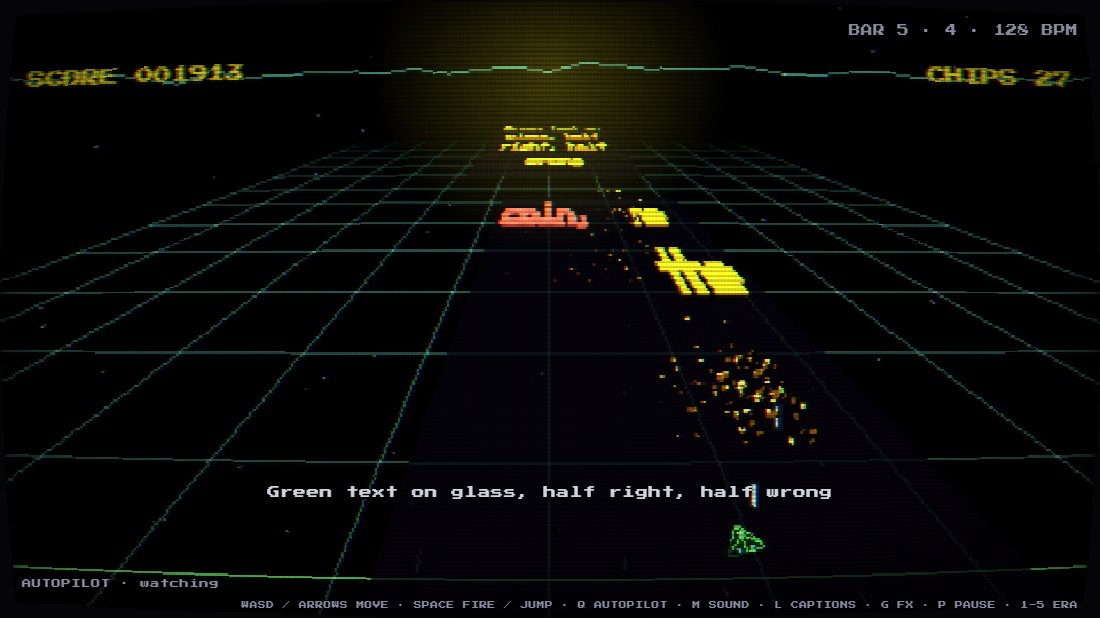
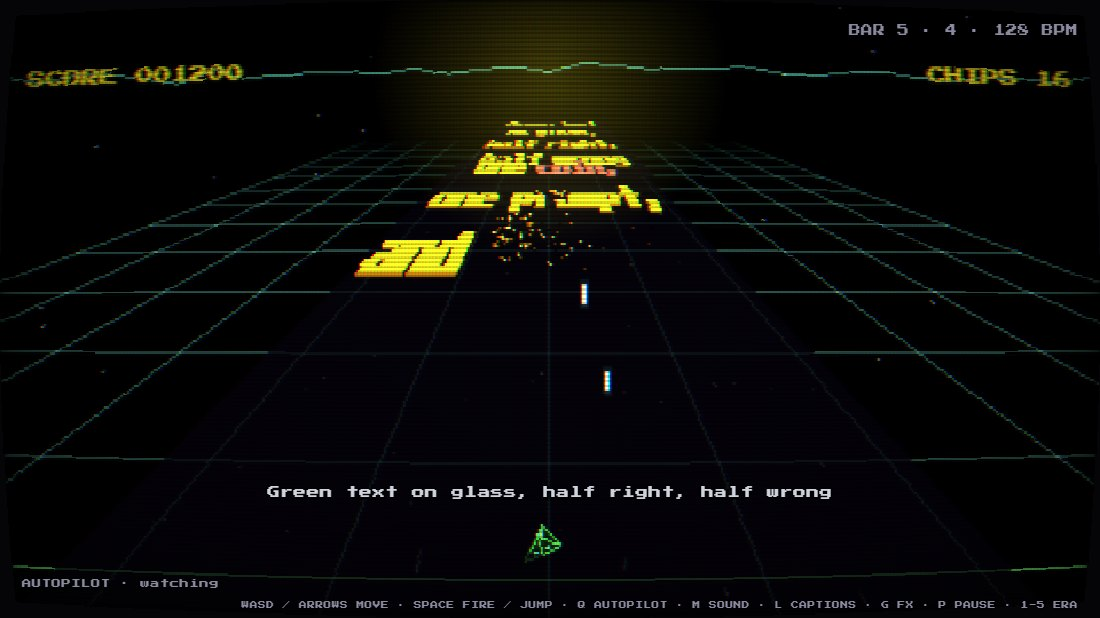
Crisp arcade words, four stage transitions, 32-BIT, no translate prompt
Arcade: 24 px type on 3-texel voxels so every block is exactly one font
pixel again (18 px had pushed glyph pixels off the voxel grid and
smeared the letters); chip radius scales with the type; the autopilot
holds fire until words are in the nearer half, so every line reads
cleanly for most of its approach (23/42 cleared, 0 deaths).
Transitions: arcade -> 32-bit is a resolution upgrade (pixelate out,
sharpen in); 32-bit -> 3D powers the CRT off to a line and flies the
race in; 3D -> mobile shrinks the race into the phone's screen; mobile
-> VR opens the VR world out of the phone in a neon frame while the
agent birds grow and fly over everything (their own top layer again).
Stage 2 is labelled 32-BIT. The page is marked English / notranslate
(also set at runtime, since the artifact build drops <html lang>).
README screenshots and the visual baseline refreshed.

diff --git a/src/main.ts b/src/main.ts
@@ -70,11 +70,24 @@ function glitch(t){if(t-lastBeatT<0.07&&hash(beatIdx)>0.5){for(let i=0;i<3;i++){
 function edge(x){const g=ctx.createLinearGradient(x-30,0,x+6,0);g.addColorStop(0,'rgba(255,255,255,0)');g.addColorStop(1,'rgba(255,255,255,.9)');ctx.fillStyle=g;ctx.fillRect(x-30,0,36,H)}
 
 function render(t,auto){ctx.setTransform(dpr,0,0,dpr,0,0);ctx.imageSmoothingEnabled=false;ctx.fillStyle='#000';ctx.fillRect(0,0,W,H);const e=eraAt(t),tr=transAt(t);
- if(e===0){if(E1GL.ok)E1GL.draw(lo1.x,t);else E1.draw(lo1.x,t);if(tr){E2.draw(lo2.x,t);blitCRT(lo2,t);const ex=W*smooth(tr.p);ctx.save();ctx.beginPath();ctx.rect(ex,0,W-ex,H);ctx.clip();blitCRT(lo1,t);ctx.restore();edge(ex)}else blitCRT(lo1,t)}
- else if(e===1){E2.draw(lo2.x,t);if(tr){drawE3(t);const p=smooth(tr.p);ctx.save();ctx.globalAlpha=1-p;const hy=H*0.5;ctx.translate(W/2,hy);ctx.scale(1+p*0.6,1-p*0.98);ctx.translate(-W/2,-hy);blitCRT(lo2,t);ctx.restore()}else blitCRT(lo2,t)}
- else if(e===2){if(tr){E4.draw(ctx,t);ctx.globalAlpha=Math.pow(1-tr.p,1.5);drawE3(t);ctx.globalAlpha=1;scan(0.07*(1-tr.p))}else{drawE3(t);scan(0.07)}}
- else if(e===3){E4.draw(ctx,t);if(tr){const p=smooth(tr.p);ctx.save();ctx.translate(W*(1-p),0);ctx.beginPath();ctx.rect(0,0,W,H);ctx.clip();drawE5(t);ctx.restore();edge(W*(1-p))}}
+ // transitions (the last TRANS before each stage), one per hand-off:
+ // arcade -> 32-bit: a resolution upgrade (the arcade breaks into chunky pixels, the 32-bit world sharpens out of them)
+ if(e===0){if(E1GL.ok)E1GL.draw(lo1.x,t);else E1.draw(lo1.x,t);if(tr){const p=tr.p;if(p<0.5)blitCRT(lo1,t);else{E2.draw(lo2.x,t);blitCRT(lo2,t)}
+   const steps=[1,2,3,4,6,8,12,16,24],q=p<0.5?smooth(p/0.5):1-smooth((p-0.5)/0.5);pixelate(steps[Math.round(q*(steps.length-1))]);if(Math.abs(p-0.5)<0.06){ctx.fillStyle=`rgba(255,255,255,${0.5*(1-Math.abs(p-0.5)/0.06)})`;ctx.fillRect(0,0,W,H)}}else blitCRT(lo1,t)}
+ // 32-bit -> 3D: the CRT powers off to a line, and the 3D race boots up out of the dark with a camera fly-in
+ else if(e===1){E2.draw(lo2.x,t);if(tr){const z=smooth(clamp((tr.p-0.3)/0.7,0,1));ctx.fillStyle='#000';ctx.fillRect(0,0,W,H);if(z>0){ctx.save();ctx.globalAlpha=Math.min(1,z*2);ctx.translate(W/2,H/2);ctx.scale(0.25+0.75*z,0.25+0.75*z);ctx.rotate((1-z)*0.35);ctx.translate(-W/2,-H/2);drawE3(t);ctx.restore()}
+   const p=smooth(clamp(tr.p/0.55,0,1));if(p<1){ctx.save();const hy=H*0.5;ctx.translate(W/2,hy);ctx.scale(1+p*0.4,Math.max(0.004,1-p));ctx.translate(-W/2,-hy);blitCRT(lo2,t);ctx.restore();ctx.fillStyle=`rgba(255,255,255,${0.9*p})`;ctx.fillRect(0,hy-1,W*(1-p*0.7)+0,2)}}else blitCRT(lo2,t)}
+ // 3D -> mobile: the race shrinks into the phone's screen: it was a game on the phone all along
+ else if(e===2){if(tr){E4.draw(ctx,t);const p=smooth(tr.p),R=E4.screenRect(t),r={x:lerp(0,R.x,p),y:lerp(0,R.y,p),w:lerp(W,R.w,p),h:lerp(H,R.h,p)};
+   ctx.save();ctx.globalAlpha=tr.p<0.72?1:Math.max(0,1-(tr.p-0.72)/0.28);ctx.beginPath();ctx.roundRect(r.x,r.y,r.w,r.h,18*p);ctx.clip();const sc=Math.max(r.w/W,r.h/H);ctx.translate(r.x+r.w/2,r.y+r.h/2);ctx.scale(sc,sc);ctx.translate(-W/2,-H/2);drawE3(t);ctx.restore()}else{drawE3(t);scan(0.07)}}
+ // mobile -> VR: the VR world opens out of the phone's screen while the agents fly out over everything
+ else if(e===3){E4.draw(ctx,t);if(tr){const p=smooth(tr.p),R=E4.screenRect(t),r={x:lerp(R.x,-8,p),y:lerp(R.y,-8,p),w:lerp(R.w,W+16,p),h:lerp(R.h,H+16,p)};
+   ctx.save();ctx.beginPath();ctx.roundRect(r.x,r.y,r.w,r.h,18*(1-p));ctx.clip();drawE5(t);ctx.restore();ctx.save();ctx.strokeStyle=`rgba(91,255,91,${0.9*(1-p)})`;ctx.lineWidth=3;ctx.shadowColor='#5bff5b';ctx.shadowBlur=18;ctx.beginPath();ctx.roundRect(r.x,r.y,r.w,r.h,18*(1-p));ctx.stroke();ctx.restore()}
+   E4.drawAgents(ctx,t)}
  else{drawE5(t);const q=clamp((t-ERAS[4].start)/(BAR*8),0,1);scan(0.1*q);if(t<cb(76))glitch(t)}}
+// chunky-pixel effect over the whole frame (k = pixel size in canvas px)
+const PXC=document.createElement('canvas'),PXX=PXC.getContext('2d')!;
+function pixelate(k:number){if(k<=1)return;const tw=Math.max(1,Math.round(W/k)),th=Math.max(1,Math.round(H/k));if(PXC.width!==tw||PXC.height!==th){PXC.width=tw;PXC.height=th}PXX.imageSmoothingEnabled=true;PXX.drawImage(cv,0,0,cv.width,cv.height,0,0,tw,th);ctx.save();ctx.imageSmoothingEnabled=false;ctx.drawImage(PXC,0,0,tw,th,0,0,W,H);ctx.restore()}
 function blitCRT(lo,t){if(CRT.ok){CRT.render(lo,t,1);ctx.save();ctx.imageSmoothingEnabled=true;ctx.drawImage(CRT.canvas(),0,0,W,H);ctx.restore()}else{blit(lo);scan(lo===lo1?0.55:0.3)}}
 function drawE3(t){if(E3GL.ok){E3GL.render(t);ctx.save();ctx.imageSmoothingEnabled=false;ctx.drawImage(E3GL.canvas(),0,0,W,H);ctx.restore();E3.overlay(ctx,t)}else{ctx.fillStyle='#1a1a2e';ctx.fillRect(0,0,W,H);ctx.fillStyle='#fff';ctx.font="10px 'Press Start 2P',monospace";ctx.fillText('WEBGL REQUIRED FOR THE RACER',W/2-150,H/2)}}
 function drawE5(t){if(E5GL.ok){E5GL.render(t);ctx.save();ctx.imageSmoothingEnabled=true;ctx.drawImage(E5GL.canvas(),0,0,W,H);ctx.restore();E5.overlay(ctx,t)}else E5.draw(ctx,t)}

diff --git a/src/era1.ts b/src/era1.ts
@@ -3,7 +3,7 @@ import {eggFind} from './eggs';
 
 // ---------- ERA 1: arcade. Lyrics crawl toward you on a tilted plane; you chip the letters away ----------
 export const E1=(()=>{
-const LW=480,LH=270,GROUND=LH-26,FS=18,ROWW=300,BW=ROWW+24,TRAVEL=BAR*2.6,YEL='#ffe81f',VPX=LW/2,VPY=30;
+const LW=480,LH=270,GROUND=LH-26,FS=24,ROWW=300,BW=ROWW+24,TRAVEL=BAR*2.6,YEL='#ffe81f',VPX=LW/2,VPY=30;
 // perspective: a point at depth z on the plane lands at screen y = VPY + F/z, with horizontal scale F2/z
 const F=4000,F2=27,ROWD=0.56,ZFAR=112,ZNEAR=18;
 const SHIP=['....X....','...XXX...','.XXXXXXX.','XXXXXXXXX'];
@@ -40,7 +40,7 @@ function fire(){if(S.ship.dead)return;if(S.bul.length<3&&S.cool<=0){S.bul.push({
 // shots already in flight count as gone, so two shots never go for the same pixels.
 // it only fires at words in the nearer two-thirds of the crawl (z <= ZFIRE), so each word is readable before it is
 // chipped (firing at any range cleared 40/45 words; this clears 27-33/45, the count shifts with tiny timing changes); a shot that would land farther is worth nothing
-const ZFIRE=ZNEAR+(ZFAR-ZNEAR)*0.8;
+const ZFIRE=ZNEAR+(ZFAR-ZNEAR)*0.5;
 const resv=()=>S.bul.filter(b=>!b.hit&&b.pred).map(b=>b.pred);
 function lit(w,c,r,rs){if(w.img.data[(r*w.w+c)*4+3]===0)return false;for(const p of rs)if((c-p.cu)*(c-p.cu)+(r-p.cy)*(r-p.cy)<=p.R*p.R)return false;return true}
 function shotAt(x,t,rs){let y=S.ship.y-2;const dt=1/60;
@@ -50,7 +50,7 @@ function shotAt(x,t,rs){let y=S.ship.y-2;const dt=1/60;
     for(const w of ln.words){if(w.dead||w.gold||u<w.bx||u>=w.bx+w.w||row<w.by||row>=w.by+w.h)continue; // the gold word is see-through to the autopilot
      const ws=rs.filter(p=>p.w===w);if(ws.length&&w.left-ws.reduce((a,p)=>a+p.n,0)<w.total*0.16)continue; // shots in flight will finish it
      const cu=Math.floor(u-w.bx);let hr=-1;for(let rr=Math.floor(row-w.by);rr>=0;rr--)if(lit(w,cu,rr,ws)){hr=rr;break}
-     if(hr<0)continue;const R=clamp(Math.round(10/sc),6,14),cy=Math.max(0,hr-(R>>1)),cap=Math.ceil(w.total*0.45);let n=0;
+     if(hr<0)continue;const R=clamp(Math.round(10/sc*FS/16),Math.round(6*FS/16),Math.round(14*FS/16)),cy=Math.max(0,hr-(R>>1)),cap=Math.ceil(w.total*0.45);let n=0;
      for(let yy=-R;yy<=R&&n<cap;yy++)for(let xx=-R;xx<=R&&n<cap;xx++){if(xx*xx+yy*yy>R*R)continue;const px=cu+xx,py=cy+yy;if(px<0||py<0||px>=w.w||py>=w.h)continue;if(lit(w,px,py,ws))n++}
      return{w,ln,n:z>ZFIRE?0:n,cu,cy,R,k}}}}}return null}
 // worth of a predicted hit: pixels taken (/150), +1 if it finishes the word (after the shots already in flight at it),
@@ -103,7 +103,7 @@ function update(dt,t,inp,auto){if(t>=ERAS[1].start)return;S.autoNow=auto;
    for(const w of ln.words){if(w.dead||(w.gold&&b.auto)||u<w.bx||u>=w.bx+w.w||row<w.by||row>=w.by+w.h)continue; // autopilot shots pass through the gold word
     // the shot lands on the first solid pixel up its column (it used to chip the word's bottom padding: ~16 px a hit and
     // no word ever died); an open column (a tunnel already chipped through) lets it fly on to the next word
-    const R=clamp(Math.round(10/sc),6,14),cu=Math.floor(u-w.bx),d=w.img.data;let hr=-1;for(let rr=Math.floor(row-w.by);rr>=0;rr--)if(d[(rr*w.w+cu)*4+3]>0){hr=rr;break}
+    const R=clamp(Math.round(10/sc*FS/16),Math.round(6*FS/16),Math.round(14*FS/16)),cu=Math.floor(u-w.bx),d=w.img.data;let hr=-1;for(let rr=Math.floor(row-w.by);rr>=0;rr--)if(d[(rr*w.w+cu)*4+3]>0){hr=rr;break}
     if(hr<0)continue;const n=chip(w,cu,Math.max(0,hr-(R>>1)),R);if(!n)continue;
     b.hit=true;S.chips++;S.score+=Math.min(50,n);blip(1200+S.rng()*400,0.04,0.08);for(let i=0;i<8;i++)S.pops.push({x:b.x,y:by,vx:(S.rng()-.5)*120,vy:-S.rng()*90,l:.5});
     if(w.left<w.total*0.16){w.dead=true;S.kills++;if(w.gold)eggFind(0,S.autoNow);if(w.left+n===w.total)S.oneShot++;S.score+=100;noise(0.08,0.3,2000);const d=w.img.data;for(let py=0;py<w.h;py+=2)for(let px=0;px<w.w;px+=2){if(d[(py*w.w+px)*4+3]===0)continue;const sp=toScreen(ln,w.bx+px,w.by+py,t);S.pops.push({x:sp.x,y:sp.y,vx:(S.rng()-.5)*160,vy:(S.rng()-.9)*140,l:.7})}}

diff --git a/src/era4.ts b/src/era4.ts
@@ -73,7 +73,7 @@ function update(dt,t,inp,auto){if(t<s4-TRANS||t>=s5)return;const b=S.bird;
   S.agentsOut=0;for(const a of S.agents)if(agentPos(a,t)[0]>W)S.agentsOut++;
   if(t>=cb(73))S.ghosts=[]}
  S.flash=Math.max(0,S.flash-dt);S.ripples=S.ripples.filter(r=>t-r.t<0.5);S.parts=S.parts.filter(p=>t-p.t<0.7)}
-const AGENT_T=0.9;   // seconds from leaving the phone to crossing the right edge (all out by ~bar 73.85)
+const AGENT_T=1.45;  // seconds from leaving the phone to crossing the right edge (all out by ~bar 74.1, during the transition)
 function agentPos(a,t){const u=clamp((t-a.born)/AGENT_T,0,1),e=u*u;return[lerp(a.sx,W+40,e),lerp(a.sy,a.ty,smooth(u))-Math.sin(u*Math.PI)*50,u]}
 function onBeat(_b,_t,_auto){}
 function on8th(_n,_t,_auto){}
@@ -111,12 +111,15 @@ function draw(ctx,t){const appear=smooth((t-(s4-TRANS))/TRANS),pulse=1-((t/BEAT)
   ctx.save();ctx.globalAlpha=fout*appear*fin;ctx.fillStyle='rgba(28,28,38,.94)';rrect(ctx,x,y,NW,50,12);ctx.fill();ctx.strokeStyle=col===GREEN?'rgba(91,255,91,.35)':'rgba(255,255,255,.12)';ctx.lineWidth=1;ctx.stroke();
   ctx.fillStyle=col;rrect(ctx,x+10,y+10,30,30,7);ctx.fill();ctx.fillStyle='#0c1a10';ctx.font=F(12);ctx.textAlign='center';ctx.fillText(title[0],x+25,y+31);ctx.textAlign='left';
   ctx.fillStyle='#fff';ctx.font=F(9);ctx.fillText(title,x+50,y+22);ctx.fillStyle='#b4bacc';ctx.font=F(8);ctx.fillText(body,x+50,y+38);ctx.restore()});
- // agents leaving the phone: green sparks with a short trail
- for(const a of S.agents){if(t<a.born)continue;const [x,y,u]=agentPos(a,t);if(u>=1)continue;const [px,py]=agentPos(a,t-0.08);
-  ctx.strokeStyle=hexa(GREEN,0.45);ctx.lineWidth=3;ctx.beginPath();ctx.moveTo(px,py);ctx.lineTo(x,y);ctx.stroke();
-  const g=ctx.createRadialGradient(x,y,2,x,y,24);g.addColorStop(0,hexa(GREEN,0.55));g.addColorStop(1,hexa(GREEN,0));ctx.fillStyle=g;ctx.fillRect(x-24,y-24,48,48);
-  ctx.save();ctx.translate(x,y);ctx.scale(1.3,1.3);drawBird(ctx,0,0,-0.15,t,GREEN,1,a.born*7);ctx.restore()}
  if(S.flash>0){ctx.fillStyle=`rgba(255,255,255,${S.flash*0.6})`;ctx.fillRect(SX,SY,GW,GH)}}
+// agents leaving the phone: green sparks with a short trail, growing as they fly out at the viewer. Drawn by main.ts as
+// the top layer, so during the phone->VR transition they fly over the VR world opening out of the phone.
+function drawAgents(ctx,t){for(const a of S.agents){if(t<a.born)continue;const [x,y,u]=agentPos(a,t);if(u>=1)continue;const [px,py]=agentPos(a,t-0.08),sc=1.3+1.8*u*u;
+  ctx.strokeStyle=hexa(GREEN,0.45);ctx.lineWidth=3+3*u;ctx.beginPath();ctx.moveTo(px,py);ctx.lineTo(x,y);ctx.stroke();
+  const r=24*sc/1.3,g=ctx.createRadialGradient(x,y,2,x,y,r);g.addColorStop(0,hexa(GREEN,0.55));g.addColorStop(1,hexa(GREEN,0));ctx.fillStyle=g;ctx.fillRect(x-r,y-r,r*2,r*2);
+  ctx.save();ctx.translate(x,y);ctx.scale(sc,sc);drawBird(ctx,0,0,-0.15,t,GREEN,1,a.born*7);ctx.restore()}}
+// the phone's screen on the canvas at time t (the phone slides up from below during the transition into this stage)
+const screenRect=(t:number)=>({x:SX,y:SY+(1-smooth((t-(s4-TRANS))/TRANS))*640,w:GW,h:GH});
 function hexa(hex,a){const n=parseInt(hex.slice(1),16);return `rgba(${n>>16},${(n>>8)&255},${n&255},${a})`}
 function drawGame(ctx,t,pulse){const b=S.bird,run=Math.max(0,t-s4);ctx.save();ctx.translate(SX,GY0);
  // sky
@@ -164,4 +167,4 @@ function drawBird(ctx,x,y,rot,t,tint,alpha,seed){ctx.save();ctx.globalAlpha=alph
  const wing=Math.sin(t*22+seed)*0.6;ctx.fillStyle=dark;ctx.beginPath();ctx.ellipse(-3,2,7,4,wing,0,7);ctx.fill();ctx.stroke();
  ctx.fillStyle='#fff';ctx.beginPath();ctx.arc(5,-3,4,0,7);ctx.fill();ctx.stroke();ctx.fillStyle='#222';ctx.beginPath();ctx.arc(6.5,-3,1.8,0,7);ctx.fill();
  ctx.fillStyle=tint?'#fff':'#f0652a';ctx.beginPath();ctx.moveTo(8,1);ctx.lineTo(16,3);ctx.lineTo(8,5);ctx.closePath();ctx.fill();ctx.stroke();ctx.restore()}
-return{init,update,draw,onBeat,on8th,onLine,get S(){return S}}})();
+return{init,update,draw,drawAgents,screenRect,onBeat,on8th,onLine,get S(){return S}}})();

diff --git a/src/startgl.ts b/src/startgl.ts
@@ -93,7 +93,7 @@ export function drawPlate(x:CanvasRenderingContext2D,p:any,cx:number,cy:number,o
 const PF=(s:number)=>`${s}px 'Press Start 2P',monospace`;
 function fit(x:CanvasRenderingContext2D,txt:string,size:number,maxW:number){x.font=PF(size);const w=x.measureText(txt).width;if(w>maxW){size=Math.max(6,Math.floor(size*maxW/w));x.font=PF(size)}return size}
 function text(x:CanvasRenderingContext2D,txt:string,cx:number,cy:number,size:number,col:string,maxW=W-40,shadow=true){fit(x,txt,size,maxW);x.textAlign='center';x.textBaseline='middle';if(shadow){x.fillStyle='rgba(0,0,0,.85)';x.fillText(txt,cx+1,cy+1)}x.fillStyle=col;x.fillText(txt,cx,cy)}
-const CH=[['ARCADE','FIRST PROMPTS','#5bff5b'],['16-BIT','LEARNING TO ASK','#ff6b5b'],['3D CONSOLE','DIRECTING AGENTS','#4df0ff'],['MOBILE','WORKING FROM ANYWHERE','#ffe14d'],['VR','FULL DEVELOPMENT','#ff5be0']];
+const CH=[['ARCADE','FIRST PROMPTS','#5bff5b'],['32-BIT','LEARNING TO ASK','#ff6b5b'],['3D CONSOLE','DIRECTING AGENTS','#4df0ff'],['MOBILE','WORKING FROM ANYWHERE','#ffe14d'],['VR','FULL DEVELOPMENT','#ff5be0']];
 const NAMEY=MOBILE?160:166; // IAN GINN plate centre row
 const TOUCH=MOBILE||matchMedia('(pointer: coarse)').matches;
 

diff --git a/src/era1gl.ts b/src/era1gl.ts
@@ -10,7 +10,7 @@ const LOW=QUALITY==='low';
 // F2/z), so every voxel sits on the texture pixels the simulation hit-tests: the renderer only reflects era1.ts state.
 const {LW,LH,GROUND,BW,VPX,VPY,F,F2,ROWD,ZFAR,ZNEAR,TRAVEL,shatterT}=E1.K;
 const FPX=270,CAMH=F/FPX,SU=F2/FPX,SPD=(ZFAR-ZNEAR)/TRAVEL; // focal length (px), eye height over the plane, world width of a texture column, crawl speed
-const CELL=LOW?4:2,C0=LOW?3:1; // voxel = one 'Press Start 2P' pixel (2x2 texels from x=y=3); low tier: 2x2 font pixels
+const CELL=LOW?6:3,C0=LOW?3:0; // voxel = one 'Press Start 2P' pixel (2x2 texels from x=y=3); low tier: 2x2 font pixels
 const EXT=0.22,MAXV=LOW?2600:9000,MAXD=LOW?360:1200,MAXS=LOW?1200:3200,NSTAR=LOW?90:170;
 const RAIL=6.4,BARZ=9,TX=6,TZ=11; // grid pitch (world units) and the floor tiles that fall away at the shatter (2TX x TZ)
 let ok=false,renderer:THREE.WebGLRenderer,scene:THREE.Scene,camera:THREE.PerspectiveCamera;

diff --git a/src/patchnotes.ts b/src/patchnotes.ts
@@ -11,7 +11,7 @@ export const NOTES:{title:string,sub:string,secs:Sec[]}={
   {h:'THE GAME',items:[
    'Five generations of games, five kinds of gameplay, one song. Each stage stands for a step in how I learned to work with AI.',
    'ARCADE: a retro-3D vector crawl. The lyrics fly in as voxel words you shoot apart.',
-   '16-BIT: a platformer you steer yourself, with coins, caterpillars and ? blocks that release each line.',
+   '32-BIT: a platformer you steer yourself, with coins, caterpillars and ? blocks that release each line.',
    '3D CONSOLE: a racer on a Blender-built speedway. Each line is a gate to drive through.',
    'MOBILE: a one-thumb flyer on a phone, with notifications arriving as you play.',
    'VR: a synthwave saber lane. One saber follows your mouse or finger, and an AI co-pilot builds the arena from what you cut.',

diff --git a/src/boot.ts b/src/boot.ts
@@ -4,6 +4,9 @@
 // with the generated score. The default song is used unless the page is driven by automation (the test harness), which
 // keeps the canonical layout its cases are written against unless it asks for a song.
 import {applySongMap} from './core';
+// English, and not for translation: Chrome otherwise guesses a language from the pixel-font words and offers to translate
+// (the artifact build strips the <html lang> tag, so set it here too)
+document.documentElement.lang='en';document.documentElement.setAttribute('translate','no');document.documentElement.classList.add('notranslate');
 export const DEFAULT_SONG='press-start';
 const q=new URLSearchParams(location.search);
 const id=q.get('song')??((navigator as any).webdriver?'none':DEFAULT_SONG);

diff --git a/src/eggs.ts b/src/eggs.ts
@@ -1,5 +1,5 @@
 // ---------- SECRETS: one easter egg per stage, found by the player (never by the autopilot) ----------
-// 0 ARCADE: shoot the golden word "coin" away completely     1 16-BIT: press down on the flashing pipe (underground room)
+// 0 ARCADE: shoot the golden word "coin" away completely     1 32-BIT: press down on the flashing pipe (underground room)
 // 2 3D: drive over the rainbow pad                            3 MOBILE: fly through the gold star
 // 4 VR: cut the golden block
 // Found flags last for one play-through: they reset when the song restarts from the top. Finding all five changes the end card.

diff --git a/index.html b/index.html
@@ -1,7 +1,8 @@
 <!doctype html>
-<html lang="en">
+<html lang="en" translate="no">
 <head>
 <meta charset="utf-8">
+<meta name="google" content="notranslate">
 <meta name="viewport" content="width=device-width,initial-scale=1,viewport-fit=cover,user-scalable=no">
 <title>Next Level</title>
 <meta name="description" content="A three-minute playable music video: I leveled up with AI the way gaming did, just a lot faster. Ian Ginn for the Deputy's Maximalists.">

diff --git a/src/core.ts b/src/core.ts
@@ -17,7 +17,7 @@ export function setQuality(q:'high'|'low'){try{localStorage.setItem('etm.q',q)}c
 export let lastTouch=-1e9;
 export const ERAS=[
  {name:'1 · ARCADE',start:bar(0)},
- {name:'2 · 16-BIT',start:bar(19)},
+ {name:'2 · 32-BIT',start:bar(19)},
  {name:'3 · 3D',start:bar(37)},
  {name:'4 · MOBILE',start:bar(56)},
  {name:'5 · VR',start:bar(75)}];

diff --git a/README.md b/README.md
@@ -12,15 +12,15 @@
 | Stage | Chapter | How you play the lyrics |
 |---|---|---|
 | ARCADE | FIRST PROMPTS | A retro-3D vector crawl. Each lyric line flies in as voxel words; shoot pixels off them. |
-| 16-BIT | LEARNING TO ASK | A platformer you steer yourself. "?" blocks release each line when hit from below; bricks break, coins wait in arcs over pits, caterpillars patrol. |
+| 32-BIT | LEARNING TO ASK | A platformer you steer yourself. "?" blocks release each line when hit from below; bricks break, coins wait in arcs over pits, caterpillars patrol. |
 | 3D CONSOLE | DIRECTING AGENTS | A racer on a Blender-built speedway. One overhead gate per line; drive under it in the lit lane. |
 | MOBILE | WORKING FROM ANYWHERE | A one-thumb flyer on a phone. Words hang on signs in the pipe gaps while notifications arrive. |
 | VR | FULL DEVELOPMENT | A synthwave saber lane. Word blocks fly in on the beat; one saber follows your mouse or finger, and an AI co-pilot builds the arena from what you cut. |
 
 | | |
 |---|---|
-| ![Arcade: voxel lyric words in the vector crawl](docs/era1-arcade.jpg) | ![16-bit: the platformer with a "?" block ahead](docs/era2-platformer.jpg) |
-| **Arcade · first prompts.** The words are the targets. | **16-bit · learning to ask.** Lines hide in "?" blocks. |
+| ![Arcade: voxel lyric words in the vector crawl](docs/era1-arcade.jpg) | ![32-bit: the platformer with a "?" block ahead](docs/era2-platformer.jpg) |
+| **Arcade · first prompts.** The words are the targets. | **32-bit · learning to ask.** Lines hide in "?" blocks. |
 | ![3D console: the speedway with a lyric gate](docs/era3-racer.jpg) | ![Mobile: the phone game with a notification](docs/era4-phone.jpg) |
 | **3D console · directing agents.** One gate per line. | **Mobile · working from anywhere.** Words in the pipe gaps. |
 | ![VR: the saber lane](docs/era5-saber.jpg) | ![End card](docs/end-card.jpg) |
